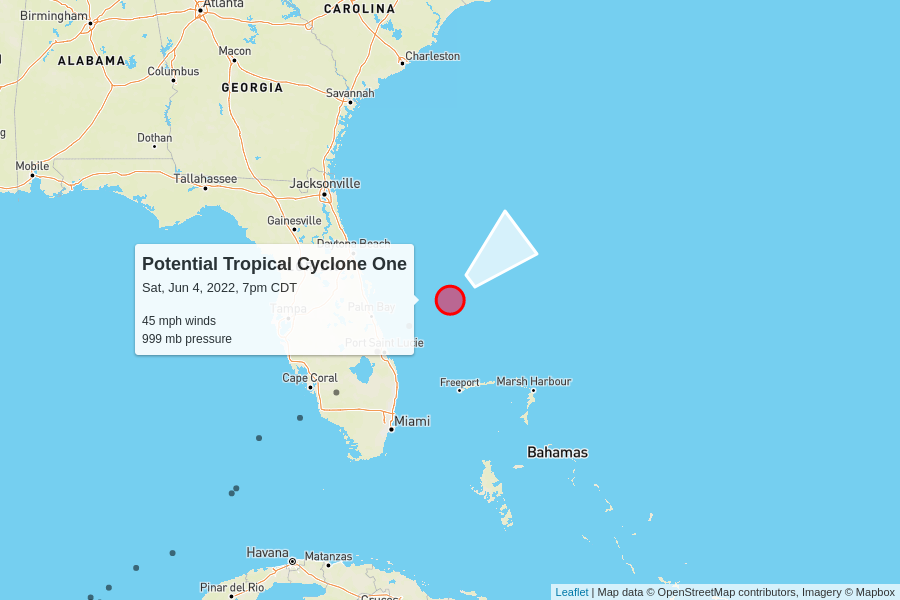
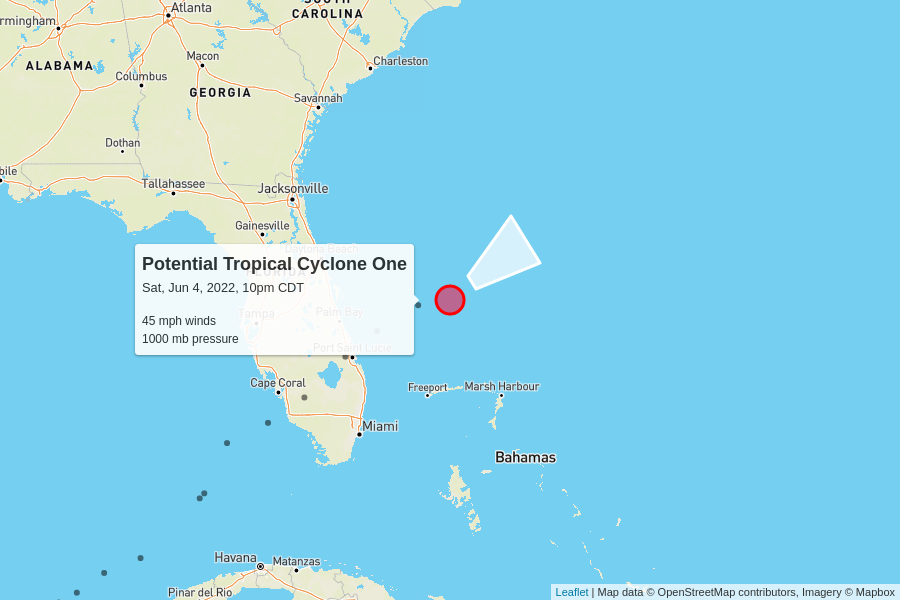
automatic update

diff --git a/docs/index.html b/docs/index.html
@@ -100,7 +100,7 @@
         <td colspan="6" class="storm category-0" >
           <h2>
             Potential Tropical Cyclone One
-            <p class="updated">last updated <span data-time>2022-06-05T00:00:00.000Z</span></p>
+            <p class="updated">last updated <span data-time>2022-06-05T03:00:00.000Z</span></p>
           </h2>
         </td>
       </tr>
@@ -116,11 +116,11 @@
       <tr>
         <td class="spacer"></td>
         <td>45 mph</td>
-        <td>999 mb</td>
+        <td>1000 mb</td>
         <td>
-          18 mph to the northeast
+          20 mph to the northeast
           <br/>
-          <span style="display: inline-block; font-size: 1.5em; transform: rotate(50deg);">↑</span>
+          <span style="display: inline-block; font-size: 1.5em; transform: rotate(55deg);">↑</span>
         </td>
         <td><a href="https://raw.githubusercontent.com/mgwalker/atlantic-hurricanes/main/data/csv/AL012022.csv">AL012022.csv</a></td>
         <td><a href="https://www.nhc.noaa.gov/archive/2022/ONE.shtml?">NHC advisories</a></td>
